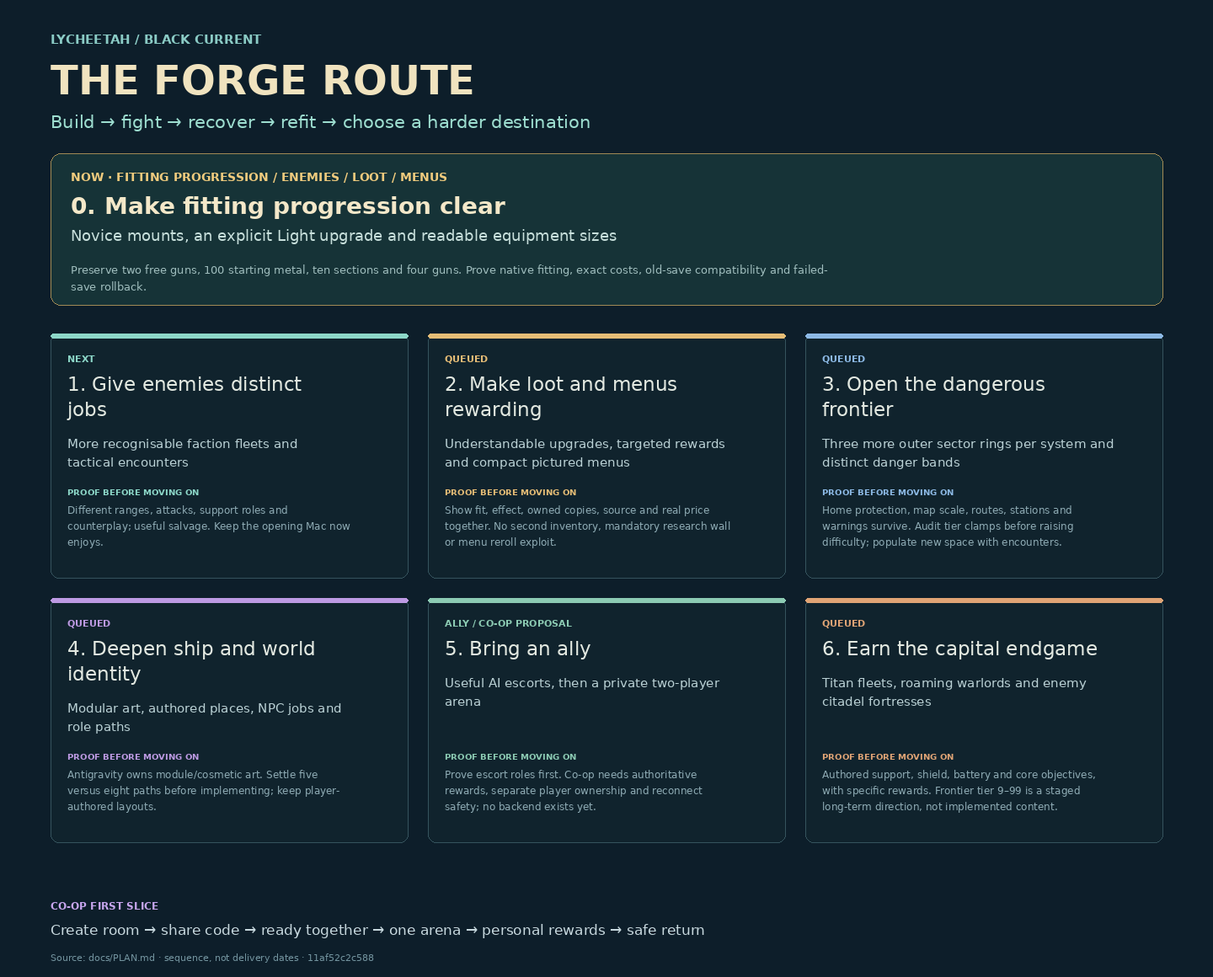
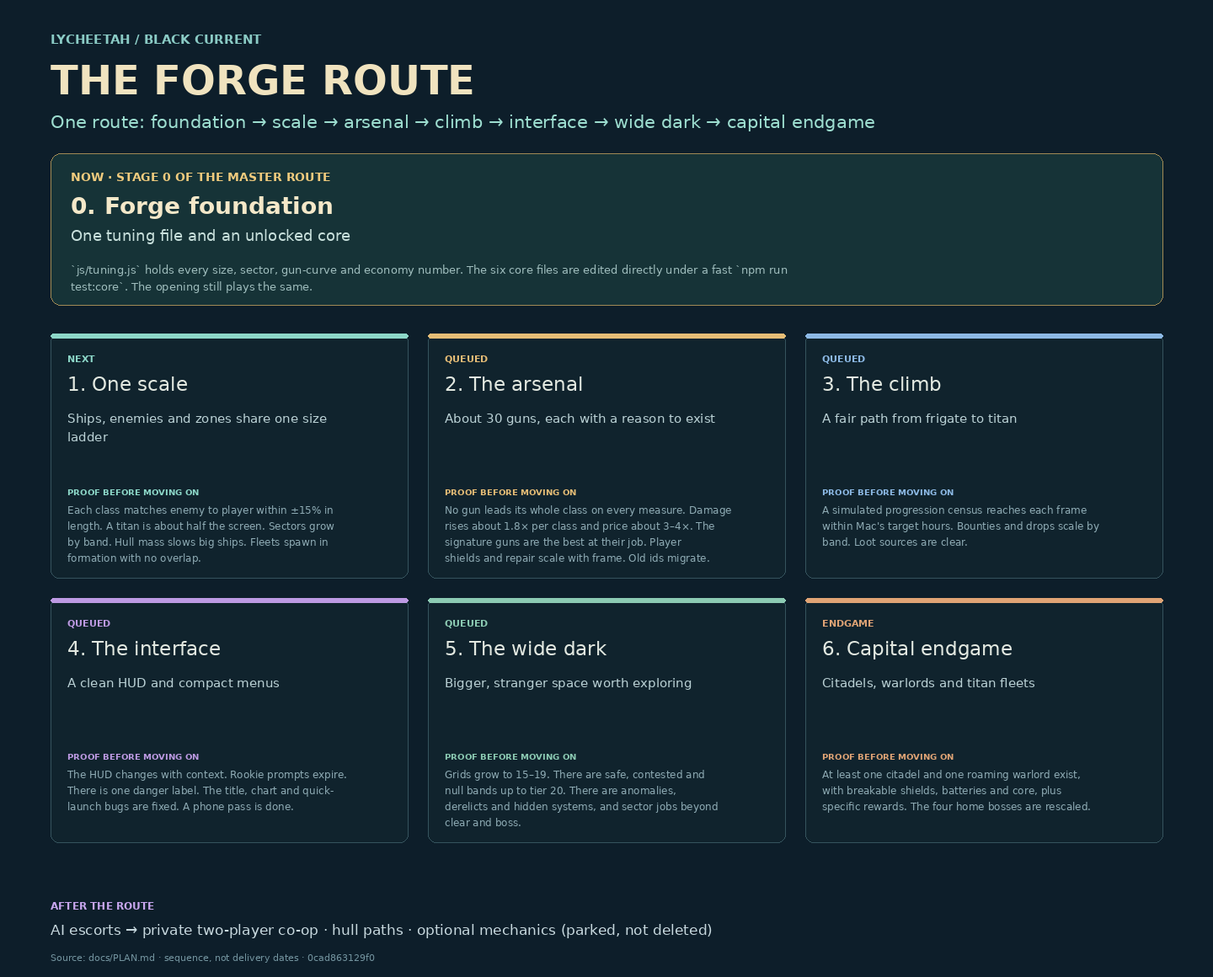
Replace phase list with one master plan
docs/PLAN.md now holds a single seven-stage route from rc.13 to the capital
endgame: Forge foundation, One scale, The arsenal, The climb, The interface,
The wide dark, Capital endgame. Each stage has an outcome, files, art and a
done-when. It replaces the old phase table, the 18-item continuation list and
the bounded-batch section.

Decisions approved by Mac (2026-10-28):
- The six hash-locked core files may be edited directly from Stage 0;
  behaviour witnesses replace the byte-hash gates (rule 9 reworded).
- About 30 curated guns replace the 93 cloned variants; saves migrate.
- Saves are migrated, never reset.
- A titan fills about half the screen at default zoom; sectors grow by band.
- The art/ library is used before anything new is commissioned.

The rc.13 measurements behind the order are recorded under "Why this order".
New sections: Art library and Decisions in force. Live tasks now holds one
row per stage plus phone-verdict. Old receipts kept here:
- combat-hotfix, enemy-roster, proper-menus, combat-scaling and
  fitting-progression were published in rc.11–rc.13 and are folded into
  stages 1–4;
- useful-loot, frontier-rings, danger-bands, capital-endgame, module-art
  and ally-and-coop moved into stages 3, 5 and 6 and "After the route";
- regression-debt moved into Stage 0;
- live-task-tracker was done.

The roadmap renderer labels follow the new route and the SVG/PNG are
regenerated. The README points to the master route. No game code changed;
[…]

diff --git a/scripts/render-roadmap.py b/scripts/render-roadmap.py
@@ -31,9 +31,9 @@ def lines(x, y, value, width=45, size=16, color='#abc3c9', limit=6):
 
 label(60, 52, 'LYCHEETAH / BLACK CURRENT', 15, '#8acbc5', 700)
 label(60, 112, 'THE FORGE ROUTE', 48, '#f0e3bf', 700)
-label(60, 152, 'Build → fight → recover → refit → choose a harder destination', 21, '#9dded0')
+label(60, 152, 'One route: foundation → scale → arsenal → climb → interface → wide dark → capital endgame', 21, '#9dded0')
 parts.append('<rect x="60" y="182" width="1320" height="180" rx="12" fill="#163337" stroke="#a18a55"/>')
-label(84, 215, 'NOW · FITTING PROGRESSION / ENEMIES / LOOT / MENUS', 14, '#f0cb7d', 700)
+label(84, 215, 'NOW · STAGE 0 OF THE MASTER ROUTE', 14, '#f0cb7d', 700)
 label(84, 254, rows[0][0], 28, '#f4e8c9', 700)
 lines(84, 286, rows[0][1], 100, 18, '#c8e0dc', 2)
 lines(84, 325, rows[0][2], 142, 13, '#9fbdbd', 2)
@@ -43,14 +43,14 @@ for i, (title, outcome, gate) in enumerate(rows[1:]):
     x, y = 60+(i%3)*448, 396+(i//3)*314
     color=colors[i]
     parts.append(f'<rect x="{x}" y="{y}" width="424" height="290" rx="10" fill="#10232d" stroke="#35535d"/><rect x="{x}" y="{y}" width="424" height="5" rx="2" fill="{color}"/>')
-    label(x+20, y+34, 'NEXT' if i==0 else 'ALLY / CO-OP PROPOSAL' if i==4 else 'QUEUED', 11, color, 700)
+    label(x+20, y+34, 'NEXT' if i==0 else 'ENDGAME' if i==5 else 'QUEUED', 11, color, 700)
     used=lines(x+20, y+68, title, 28, 23, '#e3e9e1', 2)
     used=lines(x+20, y+76+used, outcome, 44, 15, '#bad1d5', 3)
     label(x+20, y+192, 'PROOF BEFORE MOVING ON', 10, color, 700)
     lines(x+20, y+214, gate, 54, 12, '#8eabb4', 4)
 
-label(60, 1080, 'CO-OP FIRST SLICE', 12, '#c8a6ef', 700)
-label(60, 1110, 'Create room → share code → ready together → one arena → personal rewards → safe return', 17, '#c8d9df')
+label(60, 1080, 'AFTER THE ROUTE', 12, '#c8a6ef', 700)
+label(60, 1110, 'AI escorts → private two-player co-op · hull paths · optional mechanics (parked, not deleted)', 17, '#c8d9df')
 label(60, 1141, 'Source: docs/PLAN.md · sequence, not delivery dates · '+hashlib.sha256(source.read_bytes()).hexdigest()[:12], 11, '#73949f')
 parts.append('</svg>')
 svg='\n'.join(parts)

diff --git a/docs/PLAN.md b/docs/PLAN.md
@@ -1,49 +1,132 @@
-# Black Current: the living plan
+# Black Current: the master plan
 
-The one backlog for every AI seat and every human working on this repo. Read it before you start; update it
-before you stop.
+The one plan for every AI seat and every human working on this repo: a single
+route, worked top-down. Read it before you start; update it before you stop.
 
-## Master sequence — 2026-10-28
+## The master route (2026-10-28)
 
 The central loop is **build → fight → recover something useful → refit → choose
 a harder destination**. Mac owns design, direction, the phone/fun verdict and
-release decisions. This is the only active game plan; generated diagrams and
-the live task viewer read this file.
+release decisions. This is the **only** game plan: one route, worked top-down,
+from the published rc.13 to the capital endgame. Stages are a sequence, not
+dates. The table is what `scripts/render-roadmap.py` draws; the stage notes
+below it are the working list.
 
-| Phase | Outcome | Gate before moving on |
+| Stage | Outcome | Done when |
 | --- | --- | --- |
-| 0. Make fitting progression clear | Novice mounts, an explicit Light upgrade and readable equipment sizes | Preserve two free guns, 100 starting metal, ten sections and four guns. Prove native fitting, exact costs, old-save compatibility and failed-save rollback. |
-| 1. Give enemies distinct jobs | More recognisable faction fleets and tactical encounters | Different ranges, attacks, support roles and counterplay; useful salvage. Keep the opening Mac now enjoys. |
-| 2. Make loot and menus rewarding | Understandable upgrades, targeted rewards and compact pictured menus | Show fit, effect, owned copies, source and real price together. No second inventory, mandatory research wall or menu reroll exploit. |
-| 3. Open the dangerous frontier | Three more outer sector rings per system and distinct danger bands | Home protection, map scale, routes, stations and warnings survive. Audit tier clamps before raising difficulty; populate new space with encounters. |
-| 4. Deepen ship and world identity | Modular art, authored places, NPC jobs and role paths | Antigravity owns module/cosmetic art. Settle five versus eight paths before implementing; keep player-authored layouts. |
-| 5. Bring an ally | Useful AI escorts, then a private two-player arena | Prove escort roles first. Co-op needs authoritative rewards, separate player ownership and reconnect safety; no backend exists yet. |
-| 6. Earn the capital endgame | Titan fleets, roaming warlords and enemy citadel fortresses | Authored support, shield, battery and core objectives, with specific rewards. Frontier tier 9–99 is a staged long-term direction, not implemented content. |
-
-### Visual route
+| 0. Forge foundation | One tuning file and an unlocked core | `js/tuning.js` holds every size, sector, gun-curve and economy number. The six core files are edited directly under a fast `npm run test:core`. The opening still plays the same. |
+| 1. One scale | Ships, enemies and zones share one size ladder | Each class matches enemy to player within ±15% in length. A titan is about half the screen. Sectors grow by band. Hull mass slows big ships. Fleets spawn in formation with no overlap. |
+| 2. The arsenal | About 30 guns, each with a reason to exist | No gun leads its whole class on every measure. Damage rises about 1.8× per class and price about 3–4×. The signature guns are the best at their job. Player shields and repair scale with frame. Old ids migrate. |
+| 3. The climb | A fair path from frigate to titan | A simulated progression census reaches each frame within Mac's target hours. Bounties and drops scale by band. Loot sources are clear. |
+| 4. The interface | A clean HUD and compact menus | The HUD changes with context. Rookie prompts expire. There is one danger label. The title, chart and quick-launch bugs are fixed. A phone pass is done. |
+| 5. The wide dark | Bigger, stranger space worth exploring | Grids grow to 15–19. There are safe, contested and null bands up to tier 20. There are anomalies, derelicts and hidden systems, and sector jobs beyond clear and boss. |
+| 6. Capital endgame | Citadels, warlords and titan fleets | At least one citadel and one roaming warlord exist, with breakable shields, batteries and core, plus specific rewards. The four home bosses are rescaled. |
 
 ```mermaid
 flowchart LR
-  A["NOW · Novice → Light fitting"] --> B["Distinct enemies"]
-  B --> C["Useful loot + proper menus"]
-  C --> D["Three outer rings + danger bands"]
-  D --> E["World + modular ship identity"]
-  E --> F["AI ally → private co-op"]
-  F --> G["Titan fleets + citadel fortresses"]
+  S0["0 · Forge foundation"] --> S1["1 · One scale"] --> S2["2 · The arsenal"] --> S3["3 · The climb"]
+  S3 --> S4["4 · The interface"] --> S5["5 · The wide dark"] --> S6["6 · Capital endgame"]
 ```
 
-**Current published build:** **2.11.0-rc.13 Threat ladder**, cache `20261028s68`.
-Runtime source `ef975d7`, Pages `939cf45`; Pages built and11/11 changed live
-files match the exact package.22/22 native scaling and25/25 package/offline
-checks passed.647 files,646 hashes,169 embedded images; Desktop HTML matches.
-Frame durability, fixed deep risk to10, mixed fleets, real fitting classes,
-scaled attacks/rewards and class-based lock range are live. Native stationary-
-target kills:1.5/5.6/8.2/26.7s for matched cruiser/battleship/capital/titan fits
-against tiers3/5/7/10. Full regression, actual-phone FPS/feel, coordinated-fleet
-balance and the specific old recovery report remain pending.
+### Why this order
 
-Earlier release receipts are in [CHANGELOG.md](../CHANGELOG.md); their focused
-counts describe their recorded versions, not an additional pass on current code.
+Measured on rc.13 (2026-10-28):
+- **Zones too small.** A sector is 5,200–6,400 px across, while a titan is 800 px and an enemy flagship about 1,200 px. At 40% zoom, one screen is half a sector.
+- **Sizes don't match.** Enemy art is scaled up to 4.5× (`js/hostile-skins.js`), so enemies are bigger than player ships of the same class. Deep fleets spawn overlapping. Movement has no mass, so a titan handles like a frigate.
+- **Guns.** 78 of the 93 guns are the same 15 types cloned into each class. Flak has the top damage in every class and Lance the lowest. Railgun, lance and cluster are weaker than generated guns in their own class.
+- **Price wall.** Capital guns cost about 110k, 10× the siege price, for 1.85× the damage.
+- **Endgame.** A fitted titan costs about 2M metal against 1,500 metal per tier-10 kill. Player shields don't scale: a titan had 90 shield; the tier-10 enemy has 22,000.
+
+Scale comes first because every later number (range, damage, price, sector content) is tuned against it. Doing balance before scale means doing it twice.
+
+### Decisions in force (Mac approved, 2026-10-28)
+
+1. **The six core files are unlocked.** `engine.js`, `hardpoints.js`, `fleet.js`, `weapons.js`, `progression.js` and `shipyard-ui.js` may be edited directly. Behaviour witnesses replace their byte-hash gates.
+2. **About 30 curated guns** replace the 93. Old saves map each old gun to its replacement, with a refund where needed.
+3. **Migrate saves; never reset them.** Blueprints, metal and progress survive every stage.
+4. **A titan fills about half the screen at the default zoom.** The camera pulls back with hull class, and sectors grow with danger band.
+5. **Use `art/` first** (see Art library) before commissioning anything new. Antigravity keeps the module/cosmetic art lane.
+
+### Stage 0 · Forge foundation
+- **Retire the hash gates.** Remove the hash-equality checks for the six core files from the witnesses that hold them (`witness-combat-scaling`, `-combat-feel`, `-hangar-ui`, `-enemy-wings`, `-mount-progression`, `-site`, `-release-candidate`). Keep every behaviour check.
+- **One tuning file.** New `js/tuning.js`, loaded early in `index.html`, holds:
+  - `SIZE[class]`;
+  - `SECTOR[band]`;
+  - `GUN_CURVE`;
+  - `PRICE_CURVE`;
+  - `FRAMES` and `ROWS` (from `combat-scaling.js`);
+  - the `HULLS` costs (from `modular-ships.js`).
+- **Fast test group.** `npm run test:core` covers opening, fitting, scaling, services and package.
+- **Regression baseline.** Finish the interrupted broad regression in bounded groups and record its real baseline. Separate stale fixtures from real failures.
+
+### Stage 1 · One scale
+- **Enemy size.** The per-class multiplier in `hostile-skins.js` comes from `SIZE`, measured against player frames (Athanor 800 px, Leviathan 512, Dreadnought 344, cruiser ~220, frigate ~170). Enemy hull radii (`EnemyOrganism`, `faction-fleets.js`) use the same ladder.
+- **Sector size.** Radius set by band in `map.js`, replacing the `enemy-combat.js` override. Home stays at 2,600; deep and capital space grows to roughly 4,000–9,000 (starting values, UNVERIFIED). Lock range and long-gun ranges are re-tied to sector size.
+- **Camera.** The auto-zoom target follows frame class (`feel.js`, `engine.js` camera). Manual zoom stays, with a lower floor for titans.
+- **Mass.**
+  - Acceleration and turn rate scale with frame mass (`engine.js` movement, `hardpoints.steerHull`).
+  - Thrusters and engines buy that agility back.
+- **Formations.** Changes go in `engine.loadChamberEntities`, `sectors.js` spawn points and `faction-fleets.js`:
+  - the flagship sits at the centre, escorts in a wedge, screens ahead;
+  - minimum spacing is the sum of the two hull radii.
+- **Art.** `art/keyed/enemy-ships/` (17) and `art/keyed/ships/` (36) become class-matched enemy hull pools.
+- **Proof.** Screenshots of each class beside its enemy counterpart, plus a spawn-overlap witness.
+
+### Stage 2 · The arsenal
+- **Roster.** About 5 families (kinetic, beam, rail, missile, ordnance) × 6 lanes. Each gun has an identity: range, tracking, burst, and whether it's best against shields, armour or swarms. The cloned generated variants leave `arsenal.js`; the generator stays only for stat scaling.
+- **Curves.** Damage per second comes from `GUN_CURVE` (about 1.8× per class) and price from `PRICE_CURVE` (about 3–4× per class). Power becomes the real limit on big hulls.
+- **Signature guns.**
+  - Railgun: long-range anti-armour.
+  - Lance: shield-breaker beam.
+  - Cluster: anti-swarm.
+  - Flak: point defence, no longer the top damage.
+- **Defence.** Player shield capacity and repair scale with frame and module class, closing the 90-versus-22,000 gap. Enemy shields are re-tuned on the same curve.
+- **Migration.** An old-id → new-id table runs in the save load path (`progression.js`, `modularShips.hangar`). Removed guns are refunded at the price paid.
+- **Proof.** Rerun `scripts/census-weapon-balance.mjs` and commit its table.
+- **Art.** `turrets/`, `light_guns/`, `heavy_guns/`, `precursor_weapons/` (solar lance, tachyon driver) and `alien_weapons/` (bio dart, spore mortar), mapped through the `ART` table in `modular-ships.js`.
+
+### Stage 3 · The climb
+- **Re-price.** Frames, ranks (`RANK_COST`, `RANK_MASS`) and bounties (`ROWS`) are re-priced so the frigate → titan path has no wall.
+- **Progression census.** A script simulates kills per hour by band and reports hours to each frame. Mac sets the target; 15–25 hours to a titan is the proposed starting point (UNVERIFIED).
+- **Loot.** Commissions, limited stock, recovered variants and Jelly Shoals each carry a distinct reward type, and drop frequency is measured. No stock-menu reroll exploit and no second inventory. Files: `loot.js`, `quartermaster.js`, `recovered-fittings.js`, `progression-path.js`.
+
+### Stage 4 · The interface
+- **HUD.**
+  - The contracts panel collapses during combat.
+  - First-expedition and rookie contracts expire outside home.
+  - One danger source drives both `hud-danger-lvl` and the banner.
+  - The bottom bar slims down.
+  - Files: `hud-layout.css`, `navigation-hud.js`, `first-expedition.js`.
+- **Title and new game.**
+  - "Quick launch premade" no longer overlaps the crew cards.
+  - The chart (M) can't open over the title.
+  - Quick launch works under `?forge-test`.
+  - Files: `starter-journey.js`, `menu.js`, `map.js`.
+- **Menus.** Shop, station and Captain screens show fit, effect, owned copies and price together (`hangar-ui.js`, `station-grid.js`, `pilot.js`).
+- **Phone.** Phone pass on Mac's hardware. Phone-unchecked work is marked `PHONE: pending`.
+
+### Stage 5 · The wide dark
+- **Bigger grids.** Grids grow from 9–13 to 15–19 wide (`galaxy.js`, `map.js`, `travel.js`). Saved coordinates and inner-sector seeds are preserved.
+- **Danger bands.**
+  - Safe: 1–3.
+  - Contested: 4–10.
+  - Null: 11–20, the first slice of Mac's 9–99 vision.
+  - The clamps in `combat-scaling.js` and `map.js` are lifted together.
+- **Places.** Anomalies, derelicts and hidden systems, with rewards only found there. More system rules beyond the current four. Every risk keeps a visible route home.
+- **Sector jobs.** Escort, salvage run, station defence, hunt and courier, alongside clear and boss (`contracts.js`, `campaign.js`, `contacts.js`).
+- **Art.** `structures/refit-station`, `world/solar-ring`, `alien_blocks/` and `precursor_blocks/` as set pieces, plus the `world-kit.json` plates.
+
+### Stage 6 · Capital endgame
+- **Citadel fortress.** Separate shield, battery, hangar and core objectives. Art: `armor/citadel_slab`, `precursor_blocks/solar_citadel`, `precursor_blocks/obsidian_keel`.
+- **Warlords and titan fleets.** Six roaming warlords with canon names (`docs/canon/`), and titan fleets in the null band.
+- **Rescaled bosses.** The four home bosses and the Grave Choir move onto the new ladder.
+- **Rewards.** Earnable capital guns and unique titan fittings. Titan services must exist before a titan is called a mobile base.
+
+### After the route (parked, not deleted)
+- **AI escorts, then private co-op.** Useful AI escort roles first, then the private two-player arena (proposal below).
+- **Hull specialisation paths.** Five or eight per frame; decide before building.
+- **Optional mechanics.** Damage-type multipliers, adjacency bonuses, a volatile hold and a fitting-reduction preview. Never add these by implication.
+- **Mining and industry.** Only if players ask.
 
 ### Co-op proposal — design only
 
@@ -71,13 +154,10 @@ places and a friend to share them with. A good trailer should show actual
 building, actual combat and one striking guardian scene. Judge the first release
 by playability and those concrete moments; commercial reach remains unproven.
 
-Damage-triad multipliers, adjacency bonuses and a volatile hold remain optional
-design proposals. They do not automatically enter the next build.
-
 ## Rules (every seat follows these)
 
-1. **Follow Mac’s latest direction.** Work the backlog in priority order; keep each build batch bounded.
-2. **One plan.** This file is the backlog. Dated docs (`PLAN_WEEKEND_BLITZ_*`, `HANDOFF_*`, `docs/research/*`)
+1. **Follow Mac’s latest direction.** Work the route in stage order; keep each build batch bounded.
+2. **One plan.** This file is the master route. Dated docs (`PLAN_WEEKEND_BLITZ_*`, `HANDOFF_*`, `docs/research/*`)
    are history and sources, not plans (`PLAN_2026-08-17.md` and `PLAN_FPS_AND_FUN_2026-10-23.md` included). If you find a second to-do list, merge it here and say so in your commit.
 3. **Delete finished work.** When an item is done, delete it from this file in the same commit that lands it.
    The receipt lives in the commit message, not here. Done items do not stay as ✅ lines.
@@ -90,9 +170,9 @@ design proposals. They do not automatically enter the next build.
    Detail goes in code comments or a handoff.
 7. **Order is priority.** Work top-down unless Mac says otherwise. Mac can reorder at any time.
 8. **Claims carry a label.** Line counts and effort guesses are guesses (UNVERIFIED) until someone builds them.
-9. **Laws still apply.** README §Laws, `GAME_VISION.md`, `CLAUDE.md`. Classic scripts only, guard with `typeof X`,
-   never break the source-hash gates (`weapons.js` and the other original gun files stay byte-identical; patch them
-   from another file).
+9. **Laws still apply.** README §Laws, `GAME_VISION.md`, `CLAUDE.md`. Classic scripts only, guard with `typeof X`.
+   The six core files (`engine.js`, `hardpoints.js`, `fleet.js`, `weapons.js`, `progression.js`, `shipyard-ui.js`)
+   may be edited directly from Stage 0 on; behaviour witnesses, not byte hashes, protect them.
 10. **Keep live tasks current.** Update the table below at build milestones. Only one task is running; queued,
     blocked and awaiting Mac's test are distinct. Done carries evidence. The local task viewer reads this file,
     so never create a second progress database or mark planned work as completed.
@@ -105,27 +185,39 @@ snapshot of this table, not an automatic activity feed.
 <!-- live-tasks:start -->
 Project: Black Current
 Published: rc.13 · Threat ladder · live on Pages
-Candidate: none · rc.13 published;22/22 scaling and25/25 package checks
-Focus: rc.13 verified live. Phone/survival verdict pending; capital support-module progression and authored boss scaling remain queued.
-Updated: 2026-10-28T10:14:14+00:00
+Candidate: none · master route adopted 2026-10-28
+Focus: Stage 0 · Forge foundation is next. Mac's phone verdict on rc.13 is still open.
+Updated: 2026-10-28T12:00:00+00:00
 
 | ID | Status | Task | Evidence / next step |
 | --- | --- | --- | --- |
-| combat-hotfix | review | Fix enemy recovery, enemy scale, cruise and sound | Published in rc.12. Earlier combat source gate28/28 covers real critical/module damage, repair interruption, physical hull sizes, six shotgun fans, cruise and rendered audio. Exact package gate25/25; actual-phone FPS/feel and the specific recovery encounter remain pending. |
-| live-task-tracker | done | Build a visible native task rail for Cael | Native GTK rail is open under the desktop user service. Eight controls passed: live edits without restart, source error/recovery, task-state guards and real window captures. Desktop/application launchers installed. |
-| fitting-progression | review | Play the published Novice → Light fitting repair |28/28 focused native fitting/persistence/touch checks passed. All15 starters, exact144-metal new mount+gun bill, save rollback, facing through replacement/reload, owned field fallback and old saves covered. Phone/desktop captures inspected. Published rc.11: sourceedf246d, Pages72d1051, cache20261028s65.23/23 package/offline plus28/28 fitting checks;13/13 live files match. Actual phone/full regression pending. |
-| enemy-roster | review | Play local Tactical wings and continue faction variety | Tactical wings published in rc.12. The earlier26/26 combat/commission gate preceded the hotfix and was not rerun. Three patrol roles and Sanctuary mender reward are live; complete endgame scaling and actual phone/balance remain pending. |
-| proper-menus | review | Design premium fitting, station and Captain menus | Published rc.12: source0da83bc, Pagesf5d7b30, cache20261028s67.25/25 native menus and25/25 exact package/offline checks;17/17 changed live files match. Desktop/portrait/landscape captures inspected. Actual phone feel/FPS pending. Weapon/enemy scaling is next. |
-| combat-scaling | review | Scale enemy difficulty and rewards with ship progression | Published rc.13: sourceef975d7, Pages939cf45, cache20261028s68.22/22 scaling and25/25 package/offline checks passed on the final package;11/11 changed live files match. Fixed danger to10, frame HP, one flagship/two escorts/lighter screens, real fitting classes, native kills/payouts. Phone/FPS/coordinated balance pending; authored bosses/support progression remain separate. |
-| useful-loot | queued | Make salvage and station stock worth choosing | Improve existing commissions, recovered variants and limited specials. Show sources and compatible fits; measure drop usefulness and frequency. |
-| frontier-rings | queued | Add three more outer sector rings per system | Current local grids are 9–13 wide; target 15–19. Preserve inner sectors and saved coordinates; add populated danger zones, routes and refit access. |
-| danger-bands | queued | Design system risk bands and a staged null frontier | Current ordinary deep cap is10, with fixed threats and bounties; future9–99 requires staged fleet/fortress objectives and native clamp/reward review. |
-| module-art | queued | Integrate coherent modular parts and customisation | Antigravity's lane. Preserve incoming sources; witness selected art at fitting and flight scale. |
-| ally-and-coop | queued | AI support first, private two-player arena later | Useful escort roles; room authority, reconnect and reward-safety prototype before persistent co-op. No room service exists. |
-| capital-endgame | queued | Titan fleet and citadel objectives | Canon ships, destructible batteries/shields/support/core, warnings and specific rewards. Long-term design. |
-| phone-verdict | review | Judge current release on actual hardware | Rc.13 is live: sourceef975d7, Pages939cf45, cache20261028s68;11/11 live files match. Scaling22/22 and package25/25; actual phone FPS, comfort, coordinated fights and balance remain unverified. |
-| regression-debt | queued | Finish the interrupted broad regression in bounded groups | Rc.10 has31/31 combat/input/offline plus31/31 reward/persistence checks. Full npm regression remains incomplete; do not treat these as full-suite proof. |
+| stage-0-foundation | queued | Unlock the core, add `js/tuning.js`, add `test:core`, finish the regression baseline | Next. Hash gates retired with behaviour checks kept; one tuning file; bounded regression groups recorded. |
+| stage-1-scale | queued | One size ladder for ships, enemies and zones | Enemy/player same-class length within ±15%; titan ~half screen; sectors by band; mass; formation spawns. |
+| stage-2-arsenal | queued | About 30 curated guns; curves; shields; save migration | Census table committed; no class-wide dominant gun; old ids migrate with refunds. |
+| stage-3-climb | queued | Fair frigate → titan economy and useful loot | Progression census meets Mac's target hours; band bounties and drops measured. |
+| stage-4-interface | queued | Contextual HUD, compact menus, title fixes, phone pass | Captures of desktop and phone; one danger label; rookie prompts expire. |
+| stage-5-wide-dark | queued | Bigger grids, danger bands to 20, anomalies, sector jobs | Each band has distinct encounters and rewards; saves keep coordinates. |
+| stage-6-capital | queued | Citadels, warlords, titan fleets, rescaled bosses | One citadel and one warlord playable with breakable objectives and rewards. |
+| phone-verdict | review | Judge rc.13 on actual hardware | Rc.13 live: source ef975d7, Pages 939cf45, cache 20261028s68. Phone FPS, comfort and coordinated fights unverified. |
 <!-- live-tasks:end -->
+
+## Art library (`art/`, use before commissioning)
+
+| Folder | Holds | Live now | Stage |
+| --- | --- | --- | --- |
+| `keyed/modules/`, `sliced/modules/` | 215 module and turret pieces (`manifest.json`) | Fitting art | 2, 4 |
+| `keyed/sections/` | 10 modular hull tiles | Player hulls | 1 |
+| `keyed/ships/`, `sliced/ships/` | 36 whole-ship sprites, Asterion and alien/precursor | Partly | 1 (enemy pools) |
+| `keyed/enemy-ships/` | 17 enemy hulls | Partly | 1 |
+| `keyed/hostiles/` | Hostile fleet sheet (`hostile-kit.json`) | Enemy skins | 1 |
+| `keyed/turrets/`, `light_guns/`, `heavy_guns/` | Turret and gun art | Partly | 2 |
+| `keyed/precursor_weapons/`, `alien_weapons/` | Solar lance, tachyon driver, bio dart, spore mortar | Not yet | 2 |
+| `keyed/alien_blocks/`, `precursor_blocks/`, `armor/` | Carapace, heart, rib cage, keel, solar citadel, citadel slab | Not yet | 5, 6 |
+| `keyed/structures/`, `keyed/world/` | Refit station, solar ring | Stations, boss arena | 5 |
+| `concepts/`, `contact_*.png` | Concept sheets and contact sheets | Reference | — |
+
+`faction-kit.json`, `hostile-kit.json` and `world-kit.json` select assets for the game.
+Incoming art stays preserved; accepted pieces get manifest rows.
 
 ## Deploy (main is NOT the live site)
 GitHub Pages serves the **`gh-pages`** branch, not `main`. Pushing `main` changes nothing Mac can see.
@@ -158,60 +250,6 @@ stations and hulls take their names and look from it.
 "Focus on making the main game fucking epic": ships buildable to **capital proportions**, **bases** you build,
 **many kinds of enemies**, a **deep space with anomalies**, and **EVE-like quests and bounties with NPCs to talk
 to**. Mining and industry are parked: build them only if players ask for them.
-
-## Current bounded batch
-
-**REVIEW: rc.13 is public.** Native scaling22/22 and package/offline25/25
-passed on the committed package. Runtime sourceef975d7, Pages939cf45;
-Pages built and11/11 changed live files match. The new fixed ladder reaches10
-in ordinary deep sectors; home outer rings step through3/4/5. No map rings
-added. Real frame HP, mixed fleets, physical weapon classes and risk bounties
-are live. Source/Pages and the matching Desktop HTML are delivered.
-
-Phone FPS/feel, coordinated survival and the old specific recovery report
-remain pending. Authored guardians, special Swarm/jelly/practice encounters
-and capital shield/repair-module progression retain separate work. Full npm
-regression did not run. Earlier menu/combat receipts stay in CHANGELOG; they
-are not extra full-suite runs on this release. No further build is active.
-
-## Full continuation list (top = next)
-
-1. **Weapon, enemy and reward scaling — published, phone review.** Measure emitted DPS, range, burst and survival time across Novice, Light, cruiser and capital fits. Match hull size to fleets, telegraphs and fitting rewards; design real capital encounters rather than just HP increases. Preserve the opening, actor/FPS budgets, and explain danger bands before raising the tier7 clamp.
-
-
-2. **Novice → Light fitting — published, phone review.** Separate the supplied rookie mount from paid Light mounts. Explain supported sizes, smaller-gun fallback, base DPS/cycle/power and total mount-plus-gun cost. Preserve the supplied two guns, 100 metal, ten sections and four-gun ceiling. No hidden research requirement. Sources: `modular-ships.js`, `novice-ships.js`, `starter-journey.js`, `hangar-ui.js`, `progression-path.js`.
-
-3. **Enemy roster and combat variety.** More canon faction hulls, formations, ranged attackers, carriers, escorts and support roles. Enemies must actually fire and telegraph dangerous attacks. Coherent hulls retain real damageable modules. Keep ordinary actor budgets and the opening Mac enjoys. Sources: `ai.js`, `faction-fleets.js`, `enemy-combat.js`, `hostile-skins.js`, canon.
-
-4. **Useful loot and acquisition.** Extend existing commissions, recovered variants, Jelly Shoals and rotating station stock. Give each activity a reason to visit, with identifiable equipment sources and meaningful upsides/downside variants. Keep ordinary rookie stock available; no stock-menu reroll exploit or second inventory. Sources: `loot.js`, `recovered-fittings.js`, `quartermaster.js`, `equipment-codex.js`.
-
-5. **Proper compact menus.** Finish pictured slot/equipment comparisons, station services, Captain choices, augments and journal goals. Show price, owned copies, fit, actual effect and next action together. Consolidate obsolete Armoury presentation only with a replacement witness of native ownership/purchase. Sources: `hangar-ui.js`, `station-grid.js`, `pilot.js`, `equipment-codex.js`, native overlays.
-
-6. **Three more outer rings per system.** Expand current 9–13-wide local grids to 15–19, preserving home protection, inner-sector seeds, existing saves and return routes. New rings need distinct populated encounters, useful stations and visible danger/route guidance. More empty squares alone do not complete this item. Sources: `map.js`, `sectors.js`, `galaxy.js`, `travel.js`, `navigation-hud.js`.
-
-7. **System risk bands and the null frontier.** Separate safer homes, contested space and dangerous outer systems. Audit sector/AI/bounty/loot clamps first: sector danger currently caps at7, bounty lookup at10. Stage authored bands toward Mac's tier9–99 vision; suggested first slice9–12 is a proposal. Higher bands add fleet roles, siege counterplay and specific rewards, not just multiplied HP. Single-player risk bands do not imply implemented PvP/security services.
-
-8. **Modular art and customisation — Antigravity's lane.** Select incoming top-down hull, armour and turret assets; preserve sources and consistent anchors/scale in flight and fitting. Use old capital silhouettes as modular inspiration. Keep spinal rails visible beneath guns and big-frame phone construction usable. No return of the retired player editor. Sources: `art/review/`, accepted manifests, `section-art.js`, `turret-art.js`, `topdown-kit.js`.
-
-9. **Performance and real-phone blockers.** Reproduce Mac's exact touch failures. Profile representative fights and fix the largest measured cost. Keep all wallet currencies, HP/shield numbers, route dismiss controls and usable stations. Browser viewport screenshots do not establish sustained phone FPS, heat or fun. Sources: `render-budget.js`, `hud-layout.css`, `navigation-hud.js` and the measured hot path.
-
-10. **Interrupted regression.** Finish the broad pass in bounded groups; distinguish stale fixtures from real failures, including historical galaxy survival/hubs reload reports. Preserve counts and failures. The first fifteen minutes are now a regression guard, not a fresh redesign priority: Mac says they already feel good.
-
-11. **Weapon and defence balance.** Compare DPS, cadence, range, payload, power, price and mount investment. Avoid both one-gun slowness and the zone-three power spike. Retain distinct missile, beam, rail and electro-kinetic behaviours. Make armour/shield trade-offs visible; no blanket hull buff. Protected combat sources remain byte-identical.
-
-12. **Soundscape and combat feedback.** Five family voices, managed firing layers and effects controls shipped in rc.5. Use Mac's listening verdict to target impacts, warnings, pickups, docking and ambience. Replace the engine only if measured limits justify it. Sources: `battery-audio.js`, `soundscape.js`, `sound.js`.
-
-13. **Hull specialisation paths — decision pending.** Confirm five versus eight paths per frame before building. Interceptor, assault, logistics, carrier and siege are candidates; each needs clear trade-offs and prices on the existing ladder. Source: `modular-ships.js`, canon.
-
-14. **Reactors and batteries.** Distinguish fitting power from stored boost energy. Small incremental active upgrades complement passive fits. Sensors stay deferred until they have a real gameplay job. Sources: reactor/Captain adapters.
-
-15. **NPC jobs, stations, gates and anomalies.** Canon agents, mapped objectives and targeted rewards for hunts, couriers, escorts and exploration. Improve refit coverage, then gates and Depth-scaled bases. Every risk needs a visible route home. Sources: `contracts.js`, `contacts.js`, `hubs.js`, `travel.js`, `galaxy.js`.
-
-16. **AI allies → private co-op.** Start with a useful healer escort, then distinct support/combat roles and enemy counterplay. Prototype two pilots with one room code and guardian, friendly fire off, revive and explicit leave/reconnect. Authoritative enemies/rewards, player/team IDs and save-safety come first. No multiplayer backend exists; hosting/stack/cost need Mac's decision. Persistent galaxy/trading/PvP follow only after this works.
-
-17. **Capital and Titan endgame.** Earnable capital guns, fleet goals and enemy citadel fortresses. Author separate shields, batteries, hangars, power and core objectives for a pilot plus AI or human ally. Extend canon ships, six roaming warlords, landscapes and specific rewards; Titan services must exist before calling it a mobile base. Goliath's 99k-plus-cores target remains a proposal. Mac's space-demon list is still needed before authoring those figures.
-
-18. **Optional later mechanics.** Damage-type multipliers, adjacency buffs, volatile deep cargo and a player-approved fitting-reduction preview remain proposals. Never silently remove fitted hardware or add them to a batch by implication.
 
 ## Sources
 - `docs/canon/`: Mac's Sovereign Eclipse canon (see Canon above). `js/canon.js` is its data form.

diff --git a/README.md b/README.md
@@ -119,7 +119,8 @@ copies and Git history; they are outside the current published tree.
 
 ## AGENT: START HERE
 
-**The living backlog is [docs/PLAN.md](docs/PLAN.md).** Read its rules first: work top-down,
+**The master plan is [docs/PLAN.md](docs/PLAN.md): one route in seven stages, from Forge
+foundation to the capital endgame.** Read its rules first: work the stages in order,
 delete an item in the same commit that lands it, and remember `main` is not the live site
 (Pages serves `gh-pages`; see its Deploy section). Dated plans and handoffs are history.
 
@@ -174,8 +175,8 @@ The masterplan, including proposed room-code co-op, stays in `docs/PLAN.md`.
 `python3 scripts/render-roadmap.py` regenerates its SVG/PNG view; it is not a
 second task list. [Capture handoff](docs/TRAILER_CAPTURE.md).
 Focused journey: `npm run test:journey`. Focused fitting coverage: `npm run test:hangar`; touch construction: `npm run test:phone-fitting`.
-`forge-reset.js` owns the one-time development reset. The six original combat and
-editor sources remain hash protected; extend them through adapters.
+`forge-reset.js` owns the one-time development reset. From Stage 0 of the master route,
+the six original combat and editor sources may be edited directly under behaviour witnesses.
 
 Incoming art lives under `art/review/`; preserve it and select explicit assets for
 `art/keyed/`. The nine accepted section and turret files have manifests there.
